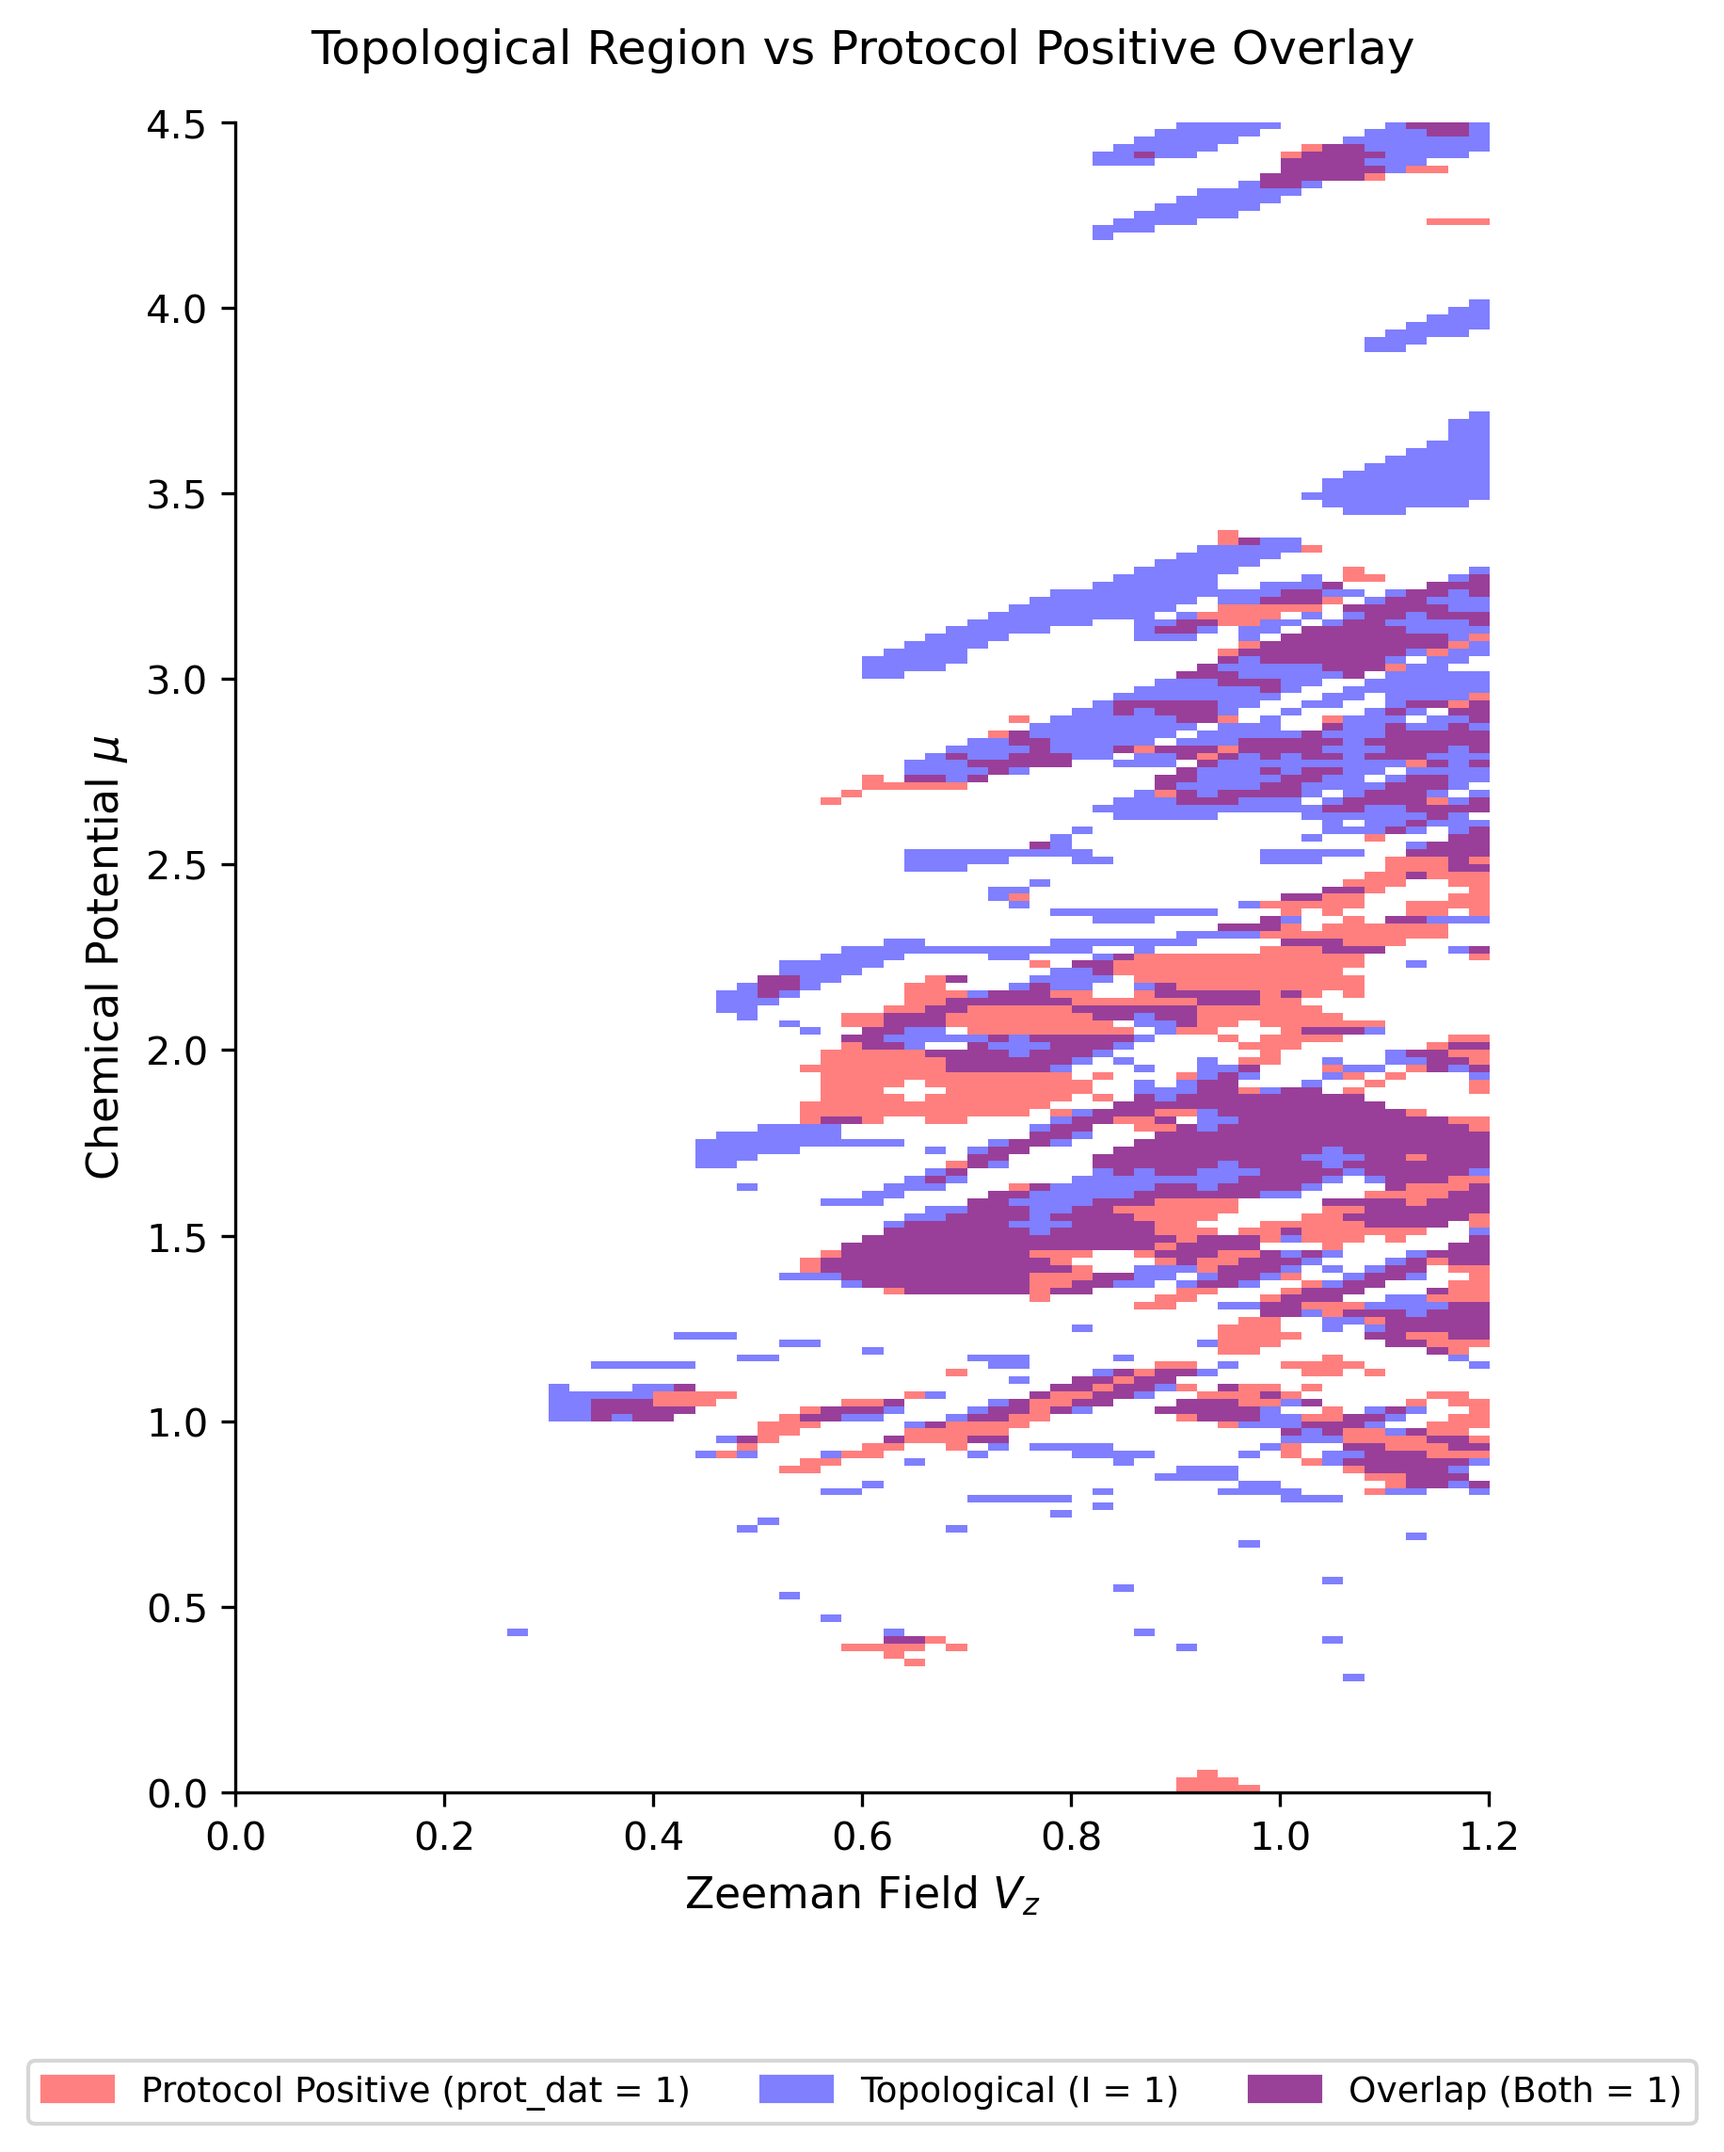
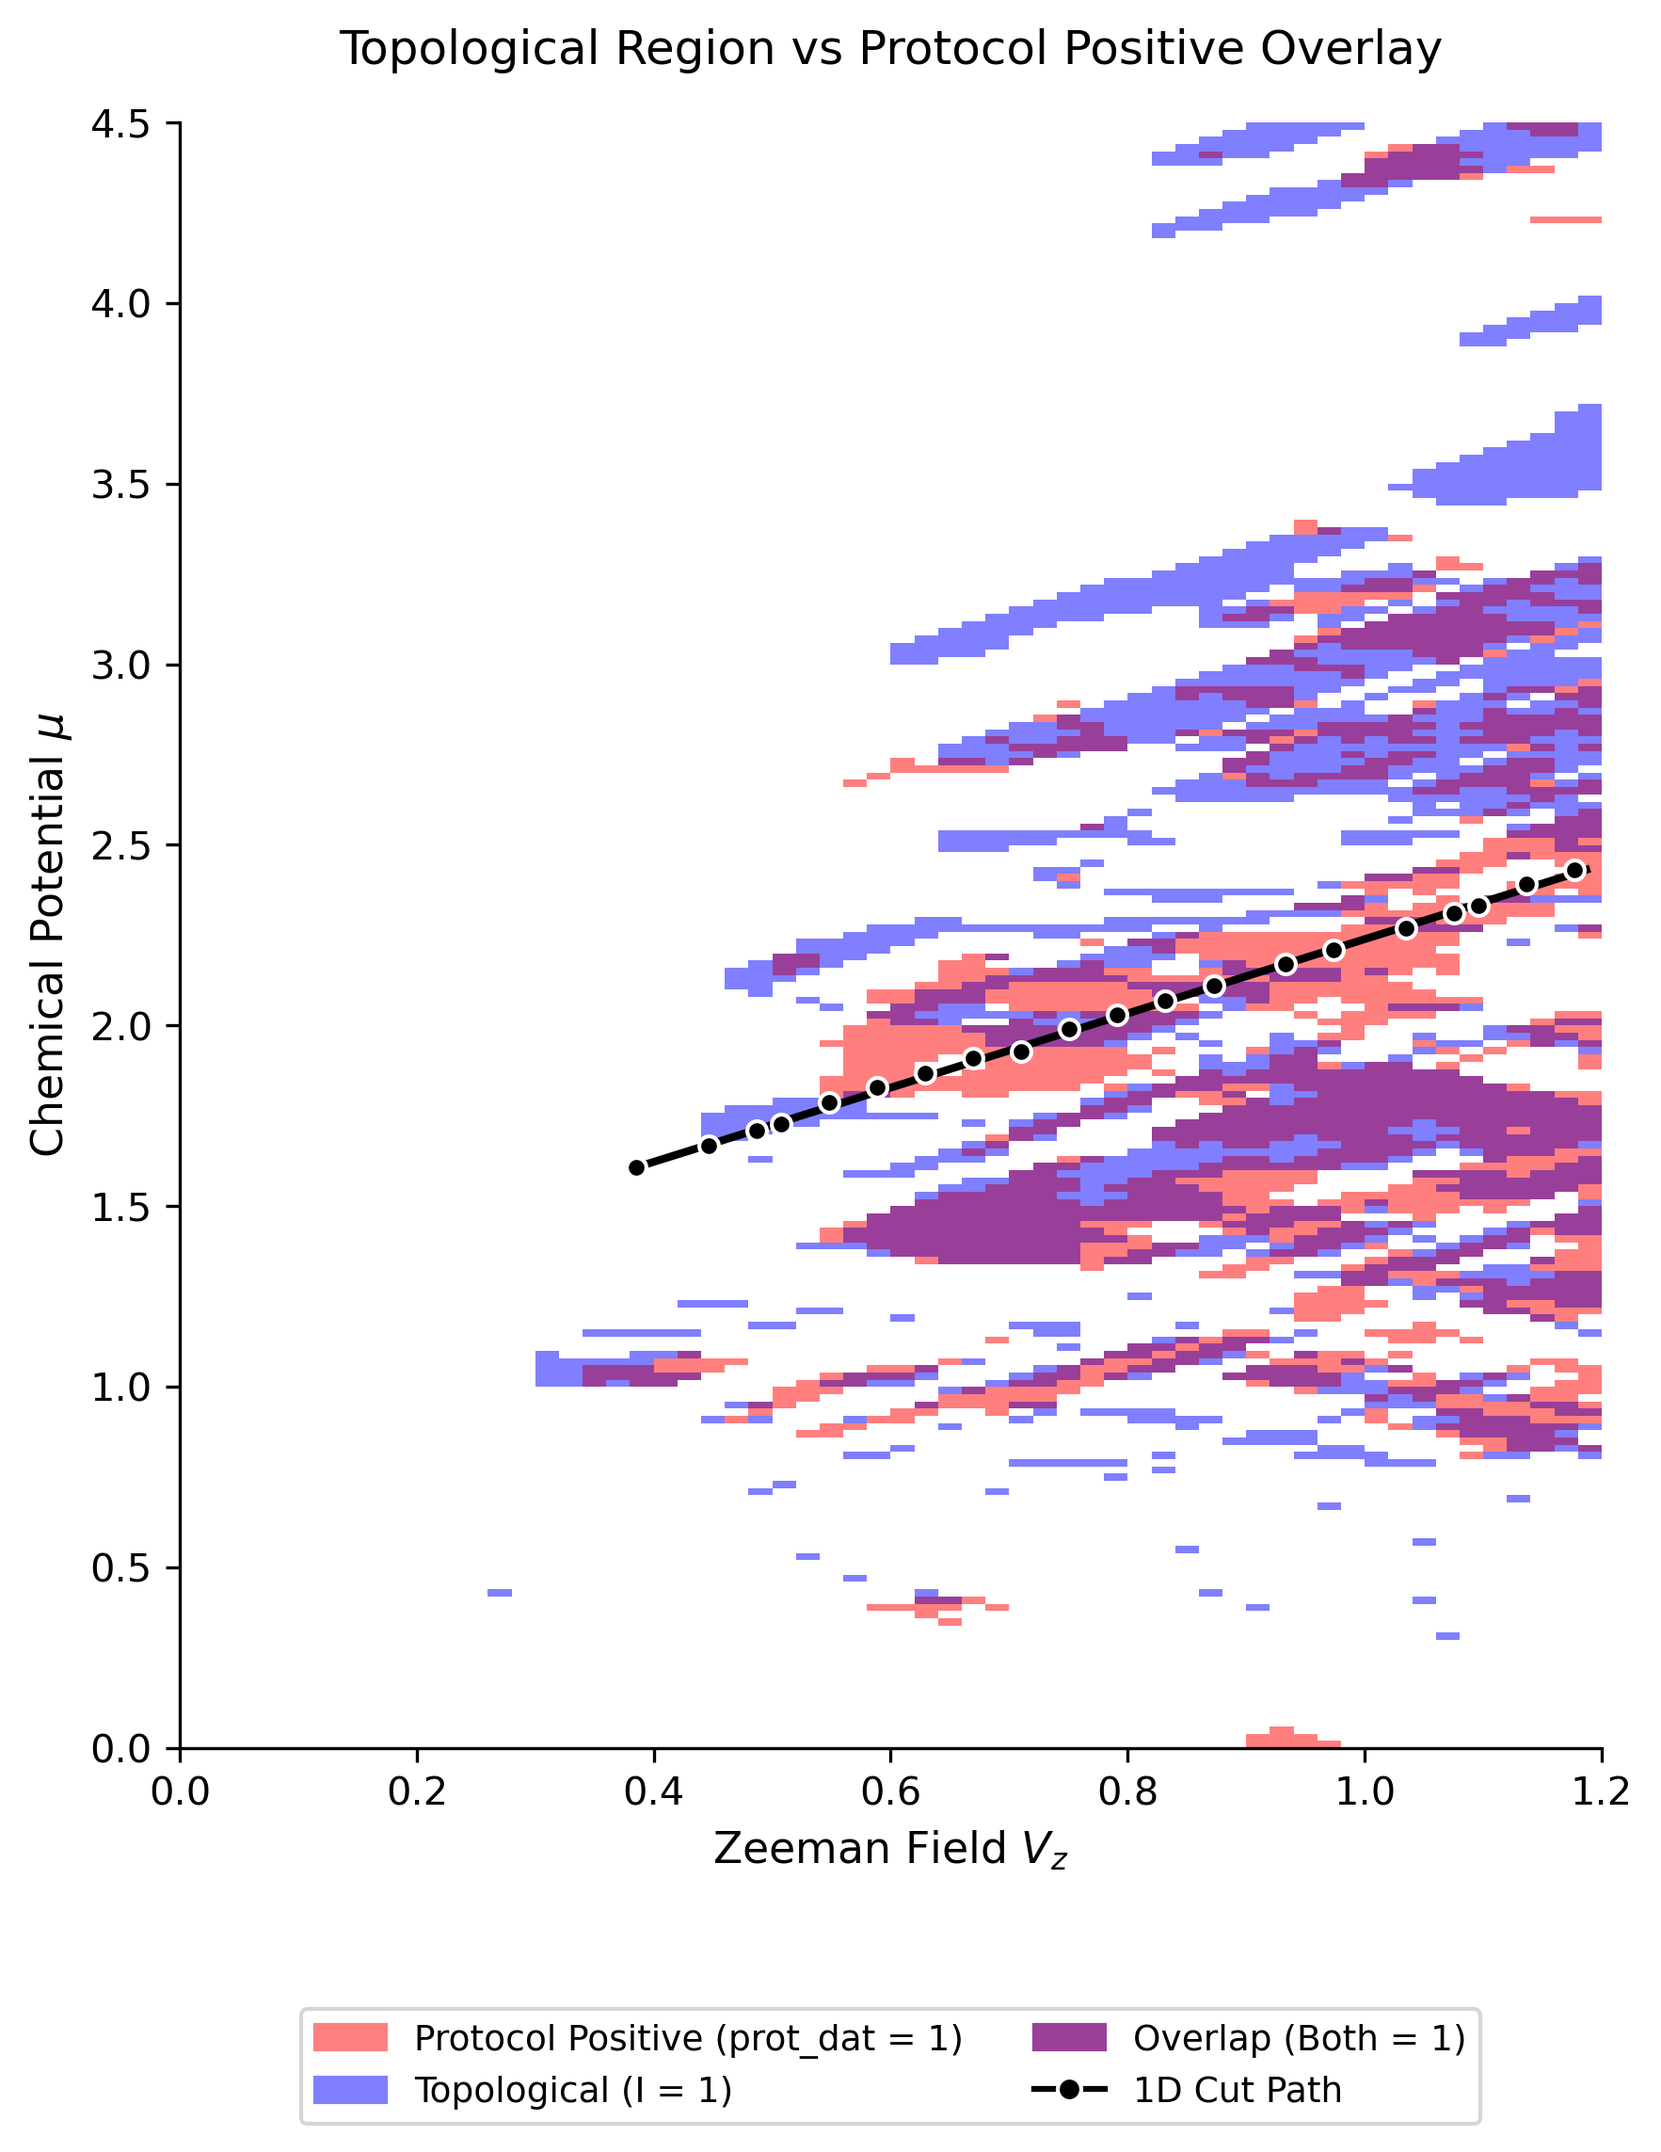
added path plot overlap plot

diff --git a/post_process.py b/post_process.py
@@ -194,8 +194,18 @@ def main():
     )
 
     # ==========================================
-    # STAGE 1: Plot 2D Overlay Map (Matplotlib)
+    # STAGE 1: Generate Path and Plot 2D Overlay Map (Matplotlib)
     # ==========================================
+    print(f"Generating point path along the cut: mu=({args.mu_start} -> {args.mu_end}), Vz=({args.vz_start} -> {args.vz_end})...")
+    pts, sampled_indices = generate_point_path(pdi_data, args.N, args.resl, args.mu_start, args.mu_end, args.vz_start, args.vz_end)
+
+    if len(pts) == 0:
+        print("Error: No points generated.")
+        sys.exit(1)
+
+    actual_N = len(pts)
+    print(f"Sampled {actual_N} points along the path.")
+
     print("Generating 2D overlay plot...")
     unique_mu = np.unique(mu)
     unique_vz = np.unique(V_z)
@@ -239,6 +249,11 @@ def main():
     fig_overlay, ax_overlay = plt.subplots(figsize=(6, 8), dpi=150)
     ax_overlay.imshow(rgba, origin='lower', extent=[unique_vz[0], unique_vz[-1], unique_mu[0], unique_mu[-1]], aspect='auto')
 
+    # Draw the exact cut path taken
+    ax_overlay.plot([args.vz_start, args.vz_end], [args.mu_start, args.mu_end], color='black', linestyle='-', linewidth=2, zorder=4)
+    # Draw the sampled points along the path
+    ax_overlay.scatter(pts[:, 1], pts[:, 0], color='black', edgecolor='white', s=25, zorder=5)
+
     ax_overlay.set_title('Topological Region vs Protocol Positive Overlay', fontsize=12, pad=15)
     ax_overlay.set_xlabel(r'Zeeman Field $V_z$', fontsize=11)
     ax_overlay.set_ylabel(r'Chemical Potential $\mu$', fontsize=11)
@@ -251,8 +266,11 @@ def main():
     blue_patch = mpatches.Patch(color=(0.5, 0.5, 1.0), label='Topological (I = 1)')
     purple_patch = mpatches.Patch(color=(0.6, 0.25, 0.6), label='Overlap (Both = 1)')
     
-    ax_overlay.legend(handles=[red_patch, blue_patch, purple_patch], bbox_to_anchor=(0.5, -0.15),
-                      loc='upper center', ncol=3, fontsize=9, frameon=True)
+    import matplotlib.lines as mlines
+    cut_line_handle = mlines.Line2D([], [], color='black', marker='o', markerfacecolor='black', markeredgecolor='white', markersize=6, linestyle='-', label='1D Cut Path')
+    
+    ax_overlay.legend(handles=[red_patch, blue_patch, purple_patch, cut_line_handle], bbox_to_anchor=(0.5, -0.15),
+                      loc='upper center', ncol=2, fontsize=9, frameon=True)
 
     overlay_out = Path(args.overlap_output)
     if not overlay_out.is_absolute():
@@ -260,23 +278,14 @@ def main():
     overlay_out.parent.mkdir(parents=True, exist_ok=True)
 
     fig_overlay.tight_layout()
-    fig_overlay.subplots_adjust(bottom=0.2)
+    fig_overlay.subplots_adjust(bottom=0.22)
     fig_overlay.savefig(overlay_out, dpi=300, bbox_inches='tight')
     plt.close(fig_overlay)
     print(f"Saved 2D overlay plot to: {overlay_out}")
 
     # ==========================================
-    # STAGE 2: Parameter Cut Paths Generation (1D)
+    # STAGE 2: Slice Path-Specific Data (1D)
     # ==========================================
-    print(f"Generating point path along the cut: mu=({args.mu_start} -> {args.mu_end}), Vz=({args.vz_start} -> {args.vz_end})...")
-    pts, sampled_indices = generate_point_path(pdi_data, args.N, args.resl, args.mu_start, args.mu_end, args.vz_start, args.vz_end)
-
-    if len(pts) == 0:
-        print("Error: No points generated.")
-        sys.exit(1)
-
-    actual_N = len(pts)
-    print(f"Sampled {actual_N} points along the path.")
 
     # Slice path-specific data
     gap = gap_all[sampled_indices]
